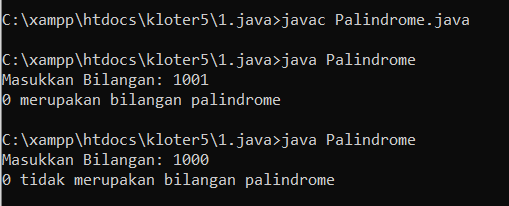
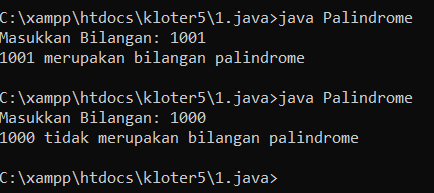
kloter5 update no1

Changed region(s): [[0.0, 0.0, 0.9585, 1.0]]

diff --git a/1.java/Palindrome.java b/1.java/Palindrome.java
@@ -7,7 +7,8 @@ public class Palindrome{
      int r,sum=0,temp; 
 
      System.out.print("Masukkan Bilangan: ");
-     int angka=input.nextInt();   
+     int angka=input.nextInt(); 
+     int cetak=angka;  
      
   
     temp=angka;    
@@ -17,8 +18,8 @@ public class Palindrome{
         angka=angka/10;    
     }    
     if(temp==sum)    
-    System.out.println(angka + " merupakan bilangan palindrome");    
+    System.out.println(cetak + " merupakan bilangan palindrome");    
     else    
-    System.out.println(angka + " tidak merupakan bilangan palindrome");    
+    System.out.println(cetak + " tidak merupakan bilangan palindrome");    
     }  
 }
